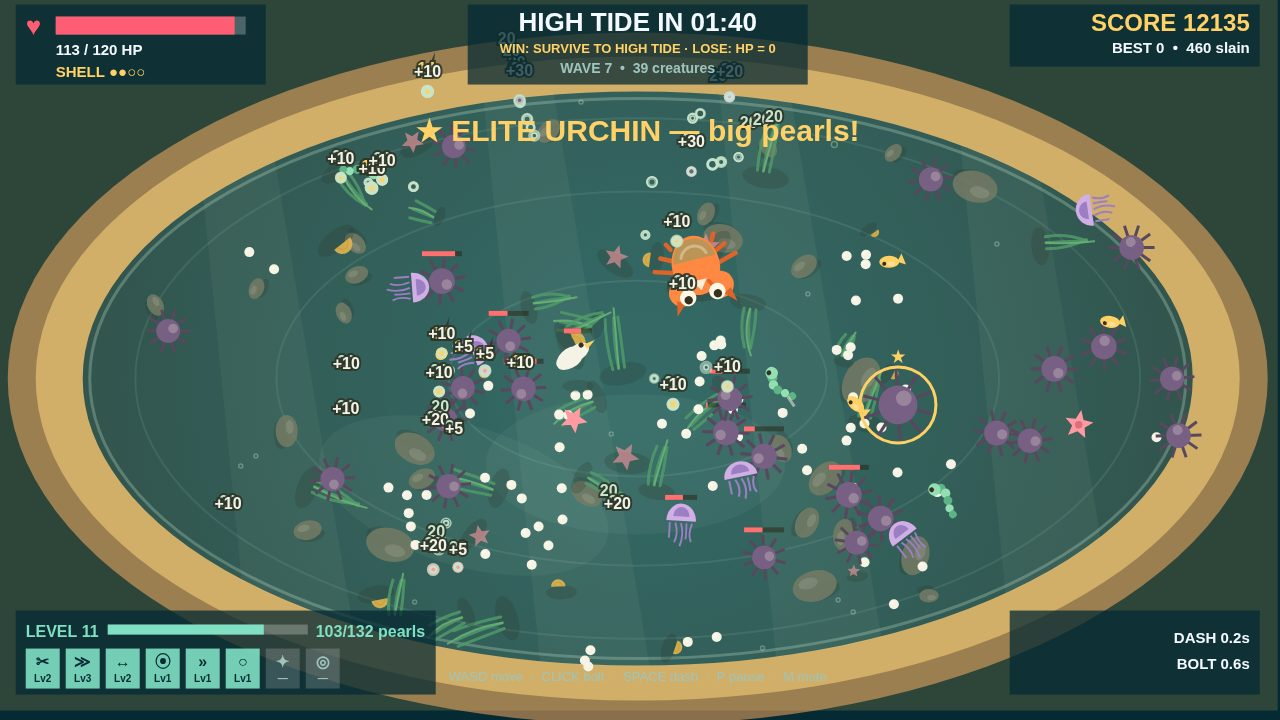
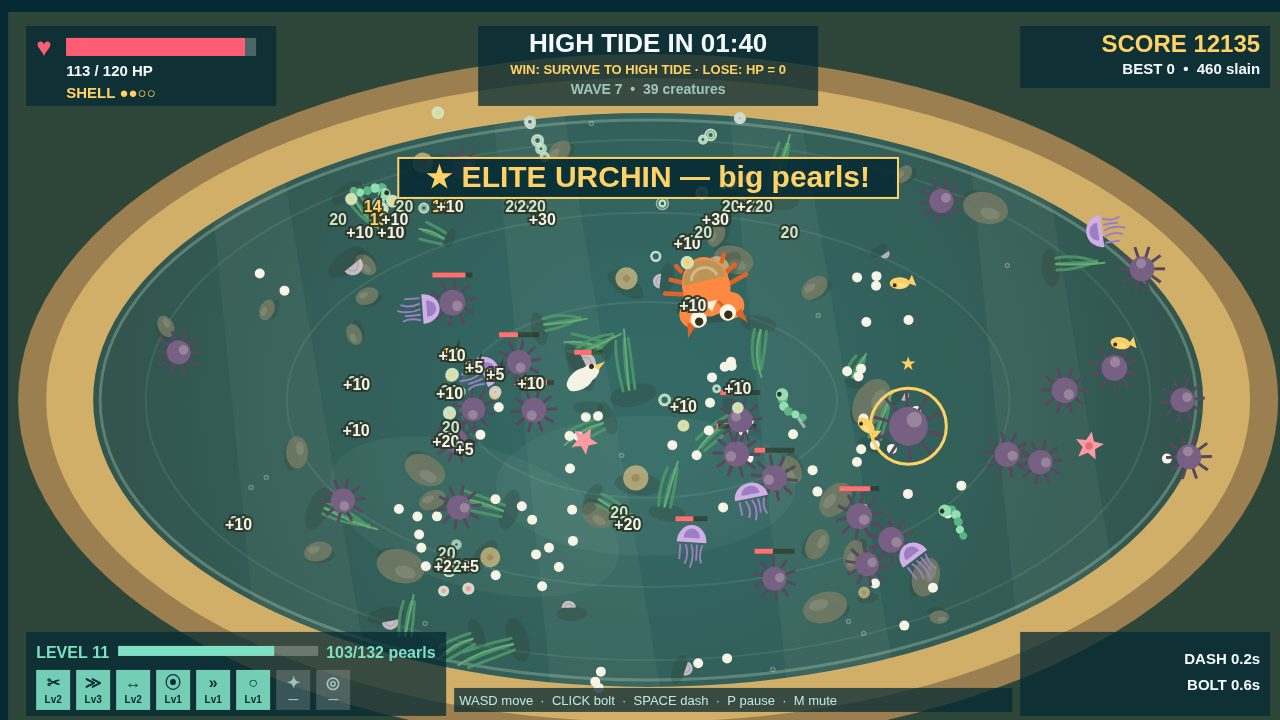
TIDEKEEPER v3: overlap fixes + pick-1-of-3 upgrade shot + build recap

diff --git a/game/src/render.js b/game/src/render.js
@@ -9,6 +9,21 @@ export const SCREEN_TITLE = 'title';
 export const SCREEN_PLAY = 'play';
 export const SCREEN_OVER = 'over';
 
+// v3: the level-up card row slides to the half of the screen the crab (and the
+// boss, if it is in the way) is NOT on, so the cards never cover either of
+// them. Centered when the middle is clear. Shared with main.js so the click
+// hit-boxes always match the drawn cards.
+export function levelUpRowX(state) {
+  const inZone = (e) => e && e.x > 250 && e.x < 1030 && e.y > 230 && e.y < 530;
+  const crab = state.player, boss = state.boss;
+  const leftIn = (inZone(crab) && crab.x < 640) || (inZone(boss) && boss.x < 640);
+  const rightIn = (inZone(crab) && crab.x >= 640) || (inZone(boss) && boss.x >= 640);
+  if (leftIn && !rightIn) return 560; // crab/boss on the left — cards go right
+  if (rightIn && !leftIn) return 30; // crab/boss on the right — cards go left
+  if (leftIn && rightIn) return crab.x < 640 ? 560 : 30; // both sides busy: keep the crab clear
+  return 290; // middle clear — centred
+}
+
 function star(ctx, x, y, r, rot, color) {
   ctx.fillStyle = color; ctx.beginPath();
   for (let i = 0; i < 10; i += 1) {
@@ -186,8 +201,10 @@ function drawEnemy(ctx, e, t, ang) {
   if (e.elite) { // gold ring + star: elites are worth hunting
     ctx.strokeStyle = '#ffd166'; ctx.lineWidth = 3;
     ctx.beginPath(); ctx.arc(e.x, e.y, e.r + 7, 0, Math.PI * 2); ctx.stroke();
+    // v3: the star sits ABOVE the HP bar — in v2 both drew at the same height
+    // and the bar cut straight through the star.
     ctx.fillStyle = '#ffd166'; ctx.font = 'bold 16px sans-serif'; ctx.textAlign = 'center';
-    ctx.fillText('★', e.x, e.y - e.r - 12);
+    ctx.fillText('★', e.x, e.y - e.r - 26);
   }
   if (e.hp < e.maxHp && (e.elite || e.type === 'heron' || e.maxHp > 40)) {
     const w = e.r * 2;
@@ -277,17 +294,30 @@ export function createRenderer(canvas) {
         ctx.beginPath(); ctx.moveTo(0, 0);
         ctx.quadraticCurveTo(4, -20 * d.s, Math.sin(t * 1.2 + d.rot) * 8, -38 * d.s); ctx.stroke();
       } else if (d.kind === 'shell') {
-        ctx.fillStyle = '#e8b64c'; ctx.beginPath(); ctx.arc(0, 0, 7 * d.s, Math.PI, 0); ctx.fill();
-        ctx.strokeStyle = '#c9962e'; ctx.lineWidth = 1.5;
+        // v3: pale lavender, never gold — a gold shell read as a fat pearl.
+        ctx.fillStyle = '#d8cfe8'; ctx.beginPath(); ctx.arc(0, 0, 7 * d.s, Math.PI, 0); ctx.fill();
+        ctx.strokeStyle = '#a894c4'; ctx.lineWidth = 1.5;
         ctx.beginPath(); ctx.arc(0, 0, 4 * d.s, Math.PI, 0); ctx.stroke();
       } else {
-        star(ctx, 0, 0, 9 * d.s, d.rot, 'rgba(255,143,176,0.7)');
+        // v3: a sand dollar, not a starfish — a pink decor star read as a
+        // (motionless) enemy starfish at a glance. Pale disc, dark centre dot.
+        ctx.fillStyle = 'rgba(224,196,143,0.8)';
+        ctx.beginPath(); ctx.arc(0, 0, 8 * d.s, 0, Math.PI * 2); ctx.fill();
+        ctx.fillStyle = 'rgba(138,111,77,0.8)';
+        ctx.beginPath(); ctx.arc(0, 0, 2.5 * d.s, 0, Math.PI * 2); ctx.fill();
       }
       ctx.restore();
     }
   }
 
   function drawHud(state, t) {
+    // v3 HUD layout (VIEW 1280x720) — every element owns one region, none overlap:
+    //   top bar y 14–94: HP panel / timer+WIN-LOSE panel / score panel
+    //   boss strip y 100–134: boss bar (boss alive) OR countdown pill (15 s before) — never both
+    //   banner zone y 146–186: one banner at a time, dark backdrop, skipped on level-up
+    //   playfield y 200–610: damage numbers live here and nowhere else (see particles.js)
+    //   hint pill y 564–608, centred, play phase only, never while a banner shows
+    //   bottom bar y 620–704: level/XP left, cooldowns right, controls strip centre
     const p = state.player;
     ctx.textAlign = 'left'; ctx.textBaseline = 'alphabetic';
     // Top-left: HP bar with a heart + shell tier, each on its own line.
@@ -311,9 +341,14 @@ export function createRenderer(canvas) {
     ctx.fillStyle = PAL.dim; ctx.font = 'bold 14px sans-serif';
     ctx.fillText(`WAVE ${state.wave}  •  ${state.enemies.length} creatures`, VIEW_W / 2, 82);
     // Boss countdown in the 15 s before the heron arrives — never a surprise.
+    // v3: its own dark pill in the boss strip, so it reads over any background.
     if (!state.bossSpawned && state.time >= BOSS.spawnAt - 15) {
-      ctx.fillStyle = `rgba(255,93,115,${0.6 + 0.4 * Math.sin(t * 6)})`; ctx.font = 'bold 17px sans-serif';
-      ctx.fillText(`⚠ THE GREAT HERON ARRIVES IN ${Math.ceil(BOSS.spawnAt - state.time)} ⚠`, VIEW_W / 2, 114);
+      const warn = `⚠ THE GREAT HERON ARRIVES IN ${Math.ceil(BOSS.spawnAt - state.time)} ⚠`;
+      ctx.font = 'bold 17px sans-serif';
+      const ww = ctx.measureText(warn).width + 40;
+      ctx.fillStyle = 'rgba(6,42,51,0.85)'; ctx.fillRect(VIEW_W / 2 - ww / 2, 100, ww, 32);
+      ctx.fillStyle = `rgba(255,93,115,${0.6 + 0.4 * Math.sin(t * 6)})`;
+      ctx.fillText(warn, VIEW_W / 2, 122);
     }
     // Boss bar under the timer while the Heron lives.
     if (state.boss) {
@@ -357,20 +392,28 @@ export function createRenderer(canvas) {
     ctx.fillStyle = PAL.text; ctx.font = 'bold 15px sans-serif';
     ctx.fillText(p.dashCd <= 0 ? 'DASH READY  [Space]' : `DASH ${p.dashCd.toFixed(1)}s`, VIEW_W - 28, VIEW_H - 68);
     ctx.fillText(p.boltCd <= 0 ? 'BUBBLE BOLT READY  [Click]' : `BOLT ${p.boltCd.toFixed(1)}s`, VIEW_W - 28, VIEW_H - 42);
-    // Wave / elite banner, centre — below the boss bar while the Heron lives,
-    // so the two never overlap (they did in the first boss shot).
-    if (state.bannerT > 0) {
+    // Wave / elite banner in its own zone (y 146–186) with a dark backdrop and a
+    // gold frame — v2 drew bare gold text that damage numbers and the heron
+    // crossed freely. Skipped on the level-up screen, whose own title lives here.
+    if (state.bannerT > 0 && state.phase !== 'levelup') {
       ctx.textAlign = 'center'; ctx.globalAlpha = Math.min(1, state.bannerT);
-      ctx.fillStyle = PAL.gold; ctx.font = 'bold 30px sans-serif';
-      ctx.fillText(state.banner, VIEW_W / 2, state.boss ? 178 : 150);
+      ctx.font = 'bold 30px sans-serif';
+      const bw = ctx.measureText(state.banner).width + 56;
+      ctx.fillStyle = 'rgba(6,42,51,0.88)'; ctx.fillRect(VIEW_W / 2 - bw / 2, 146, bw, 40);
+      ctx.strokeStyle = PAL.gold; ctx.lineWidth = 2; ctx.strokeRect(VIEW_W / 2 - bw / 2, 146, bw, 40);
+      ctx.fillStyle = PAL.gold;
+      ctx.fillText(state.banner, VIEW_W / 2, 175);
       ctx.globalAlpha = 1;
     }
-    // Controls line, bottom centre — the top entries all show one on play shots.
+    // Controls strip, bottom centre — a dark bar between the two bottom panels,
+    // so the line reads over the bright sand rim (v2's bare dim text washed out).
     ctx.textAlign = 'center';
-    ctx.fillStyle = PAL.dim; ctx.font = '13px sans-serif';
-    ctx.fillText('WASD move  ·  CLICK bolt  ·  SPACE dash  ·  P pause  ·  M mute', VIEW_W / 2, VIEW_H - 30);
+    ctx.fillStyle = 'rgba(6,42,51,0.75)'; ctx.fillRect(446, 676, 558, 24);
+    ctx.fillStyle = PAL.foam; ctx.font = '13px sans-serif';
+    ctx.fillText('WASD move  ·  CLICK bolt  ·  SPACE dash  ·  P pause  ·  M mute', VIEW_W / 2, 693);
     // Tutorial hint pill, bottom centre: one short line at a time, fading out.
-    const hint = state.hints && state.hints.cur;
+    // Play phase only — on the level-up screen the cards own the player's attention.
+    const hint = state.phase === 'play' && state.hints && state.hints.cur;
     if (hint) {
       const remain = state.hints.t;
       const alpha = Math.min(1, remain / 0.5) * Math.min(1, (hint.show - remain) / 0.25);
@@ -427,15 +470,21 @@ export function createRenderer(canvas) {
   }
 
   function drawLevelUp(state) {
-    ctx.fillStyle = 'rgba(6,42,51,0.78)'; ctx.fillRect(0, 0, VIEW_W, VIEW_H);
+    // v3: a lighter dim (0.62, was 0.78) so the fight behind the cards stays
+    // visible — the crab, the boss bar and the heron are part of the shot.
+    ctx.fillStyle = 'rgba(6,42,51,0.62)'; ctx.fillRect(0, 0, VIEW_W, VIEW_H);
     ctx.textAlign = 'center';
+    // v3: the title sits at y=180 (was 150) so its 40 px glyphs clear the boss
+    // bar (y 104–134) — in the first level-up-during-boss frame the title cut
+    // straight through "THE GREAT HERON". Cards move down with it (y 270).
     ctx.fillStyle = PAL.gold; ctx.font = 'bold 40px sans-serif';
-    ctx.fillText(`LEVEL ${state.level} — CHOOSE AN UPGRADE`, VIEW_W / 2, 150);
+    ctx.fillText(`LEVEL ${state.level} — CHOOSE AN UPGRADE`, VIEW_W / 2, 180);
     ctx.fillStyle = PAL.dim; ctx.font = '18px sans-serif';
-    ctx.fillText('Press 1, 2 or 3 — or click a card.', VIEW_W / 2, 184);
+    ctx.fillText('Press 1, 2 or 3 — or click a card.', VIEW_W / 2, 212);
     const cards = state.levelChoices || [];
+    const rowX = levelUpRowX(state); // the row slides away from the crab/boss
     cards.forEach((d, i) => {
-      const x = 290 + i * 240, y = 240, w = 210, h = 220;
+      const x = rowX + i * 240, y = 270, w = 210, h = 220;
       ctx.fillStyle = '#0e5566'; ctx.fillRect(x, y, w, h);
       ctx.strokeStyle = PAL.gold; ctx.lineWidth = 3; ctx.strokeRect(x, y, w, h);
       ctx.fillStyle = PAL.xp; ctx.font = 'bold 44px sans-serif';
@@ -489,11 +538,17 @@ export function createRenderer(canvas) {
     const mins = Math.floor(state.time / 60), secs = Math.floor(state.time % 60);
     ctx.fillText(`${state.kills} slain  •  ${state.pearlsCollected} pearls  •  Level ${state.level}  •  ${mins}:${String(secs).padStart(2, '0')} survived`, VIEW_W / 2, 345);
     ctx.fillText(`Damage dealt ${state.stats.damage}  •  Damage taken ${state.stats.taken}  •  Dashes ${state.stats.dashes}`, VIEW_W / 2, 375);
+    // v3: build recap — the upgrades this run picked, in the HUD's own
+    // icon+level language (the top entries' victory screens show one too).
+    const built = UPGRADE_DEFS.filter((d) => state.ups[d.id] > 0)
+      .map((d) => `${d.icon} Lv${state.ups[d.id]}`).join('  ·  ');
+    ctx.fillStyle = PAL.foam; ctx.font = '17px sans-serif';
+    ctx.fillText(built ? `BUILD: ${built}` : 'BUILD: no upgrades yet', VIEW_W / 2, 402);
     ctx.fillStyle = PAL.xp; ctx.font = 'bold 19px sans-serif';
-    ctx.fillText(nextGoal, VIEW_W / 2, 412);
+    ctx.fillText(nextGoal, VIEW_W / 2, 430);
     ctx.fillStyle = state.score >= state.best && state.score > 0 ? PAL.gold : PAL.dim;
     ctx.font = 'bold 22px sans-serif';
-    ctx.fillText(state.score >= state.best && state.score > 0 ? '★ NEW BEST SCORE ★' : `BEST ${state.best}`, VIEW_W / 2, 448);
+    ctx.fillText(state.score >= state.best && state.score > 0 ? '★ NEW BEST SCORE ★' : `BEST ${state.best}`, VIEW_W / 2, 462);
     const blink = state.shotMode || Math.floor(performance.now() / 500) % 2 === 0;
     if (blink) {
       ctx.fillStyle = PAL.text; ctx.font = 'bold 28px sans-serif';

diff --git a/game/src/shots.js b/game/src/shots.js
@@ -1,8 +1,8 @@
-// Deterministic screenshot scenes (?shot=start|play|elite|boss|end&seed=N).
+// Deterministic screenshot scenes (?shot=start|play|elite|boss|levelup|end&seed=N).
 // Each one plays the real rules forward from a fresh world, steered by an autopilot
 // that kites from danger, chases pearls and dashes when surrounded — so every frame
 // is what a real game looks like, and the same seed always gives the same frame.
-import { POOL, WIN_TIME } from './config.js';
+import { POOL, WIN_TIME, xpNeed } from './config.js';
 import { createRandom } from './random.js';
 import { createState } from './state.js';
 import { stepWorld } from './world.js';
@@ -79,10 +79,41 @@ export function stageShot(shot, seed, fx, audio) {
     runUntil(s, 120, fx, audio);
     return s;
   }
-  if (shot === 'levelup') { // verification only: the first level-up choice screen
+  if (shot === 'levelup') {
+    // v3: a REAL level-up during the boss fight — the 3 cards in front, the
+    // heron + boss bar behind them. Run with auto-pick past the 4:00 boss
+    // spawn, then trigger the level-up through the real gainXp path (one
+    // pearl short of the threshold, one pearl dropped on the crab), and
+    // compose the frame: crab + heron on the left, so the card row slides
+    // right and covers neither. The cards, the boss bar and the heron are
+    // all real game state; only their positions are staged for the frame.
+    for (let trySeed = seed; trySeed < seed + 6; trySeed += 1) {
+      const s = createStateFromSeed(trySeed); s.phase = 'play';
+      runUntil(s, 245, fx, audio);
+      if (s.phase !== 'play' || !s.boss) continue;
+      s.xp = xpNeed(s.level) - 1;
+      s.pearls.push({ x: s.player.x, y: s.player.y, v: 1, vx: 0, vy: 0, life: 25, bob: 0 });
+      let steps = 0;
+      while (s.phase === 'play' && steps < 60) {
+        stepWorld(s, autopilotInput(s), 1 / 60, fx, audio);
+        steps += 1;
+      }
+      if (s.phase === 'levelup' && s.levelChoices && s.levelChoices.length === 3) {
+        s.player.x = 300; s.player.y = 480; s.player.angle = 0;
+        const b = s.boss;
+        b.x = 210; b.y = 330; b.state = 'dive'; b.diveT = 0.4; // mid-swoop, left of the cards
+        b.hp = Math.min(b.hp, b.maxHp * 0.7); // the bar shows real damage, not a full bar
+        return s;
+      }
+    }
+    // Fallback: any real level-up will do — run to the first one after 60 s.
     const s = createStateFromSeed(seed); s.phase = 'play';
     runUntil(s, 60, fx, audio);
-    if (s.phase === 'play') { s.levelChoices = s.levelChoices || null; }
+    let steps = 0;
+    while (s.phase === 'play' && steps < 12000) {
+      stepWorld(s, autopilotInput(s), 1 / 60, fx, audio);
+      steps += 1;
+    }
     return s;
   }
   if (shot === 'elite') {

diff --git a/game/src/particles.js b/game/src/particles.js
@@ -1,12 +1,28 @@
 // Particles, floating damage numbers and screen shake — the juice (criterion 3).
 // Bubbles rise, shell shards fly, ink spreads; trauma decays and shakes the camera.
+// v3 layout rule: floating TEXT lives only in the clear playfield band (y 200–560,
+// x 40–1240). It never rises into the top HUD, the boss bar or the banner zone,
+// and never sinks into the hint pill (y 564–608) or behind the bottom panels —
+// v2 numbers floated over the timer, the boss bar and the banner text, which is
+// what "đè lên nhau" meant; the first v3 build still let numbers reach y 610,
+// where they showed through the hint pill during its fade-in.
+const TEXT_TOP = 200, TEXT_BOTTOM = 560, TEXT_LEFT = 40, TEXT_RIGHT = 1240;
 export function createParticles() {
   const parts = [], texts = [];
   let trauma = 0;
   return {
     add(p) { if (parts.length < 420) parts.push(p); },
     text(x, y, str, color, big) {
-      if (texts.length < 60) texts.push({ x, y, str, color, life: 0.9, big: !!big });
+      if (texts.length < 60) {
+        // Each number gets its own floor (200/213/226) and a small x nudge
+        // when it was moved: without the stagger, every number from the
+        // pool's top edge piled onto one y=200 line and overlapped each other.
+        const floor = TEXT_TOP + Math.floor(Math.random() * 3) * 13;
+        const cy = Math.max(floor, Math.min(TEXT_BOTTOM, y));
+        const moved = cy !== y;
+        texts.push({ x: Math.max(TEXT_LEFT, Math.min(TEXT_RIGHT, x + (moved ? (Math.random() * 2 - 1) * 14 : 0))),
+          y: cy, floor, str, color, life: 0.9, big: !!big });
+      }
     },
     burst(x, y, color, n, speed, kind) {
       for (let i = 0; i < n; i += 1) {
@@ -30,6 +46,7 @@ export function createParticles() {
       }
       for (let i = texts.length - 1; i >= 0; i -= 1) {
         const t = texts[i]; t.life -= dt; t.y -= 46 * dt;
+        t.y = Math.max(t.floor, t.y); // rising numbers stop at their own floor
         if (t.life <= 0) texts.splice(i, 1);
       }
     },

diff --git a/game/src/main.js b/game/src/main.js
@@ -2,14 +2,14 @@
 // A hermit crab holds the rockpool until high tide (5:00). Slay creatures, gather
 // pearls, level up, survive. Fixed 60 Hz sim apart from rendering; seeded RNG.
 // Criterion 1: title -> play -> level-up -> win/lose -> restart, all real, all visible.
-// ?seed=N fixes the run. ?shot=start|play|elite|boss|end stages that scene for screenshots.
+// ?seed=N fixes the run. ?shot=start|play|elite|boss|levelup|end stages that scene for screenshots.
 import { BEST_KEY, VIEW_H, VIEW_W } from './config.js';
 import { createRandom } from './random.js';
 import { createState } from './state.js';
 import { createInput } from './input.js';
 import { createAudio } from './audio.js';
 import { createParticles } from './particles.js';
-import { createRenderer } from './render.js';
+import { createRenderer, levelUpRowX } from './render.js';
 import { STEP, stepWorld } from './world.js';
 import { applyUpgrade } from './upgrades.js';
 import { stageShot } from './shots.js';
@@ -95,8 +95,9 @@ function handleMenus() {
     if (n >= 1 && n <= (state.levelChoices || []).length) { pickCard(n - 1); return; }
     if (input.click()) {
       const m = toLogical(input.mouse().x, input.mouse().y);
+      const rowX = levelUpRowX(state); // hit-boxes follow the drawn row (v3: it slides)
       (state.levelChoices || []).forEach((c, i) => {
-        const x = 290 + i * 240, y = 240;
+        const x = rowX + i * 240, y = 270;
         if (m.x >= x && m.x <= x + 210 && m.y >= y && m.y <= y + 220) pickCard(i);
       });
     }

diff --git a/game/src/tutorial.js b/game/src/tutorial.js
@@ -24,6 +24,10 @@ export function updateHints(state, dt) {
     if (h.t <= 0) { h.done[h.idx] = true; h.idx += 1; h.cur = null; h.wait = 0; }
     return;
   }
+  // v3: a banner owns the screen while it shows — a new hint waits its turn
+  // instead of stacking a second text block over the first. The wait clock
+  // pauses too, so the 8 s skip never fires during a banner.
+  if (state.bannerT > 0) return;
   // Hints fire in order; a later one waits until the earlier ones have shown.
   // But a hint whose moment never comes is skipped after 8 s, so one stuck
   // hint can never block the rest of the tutorial. The LAST hint is never
